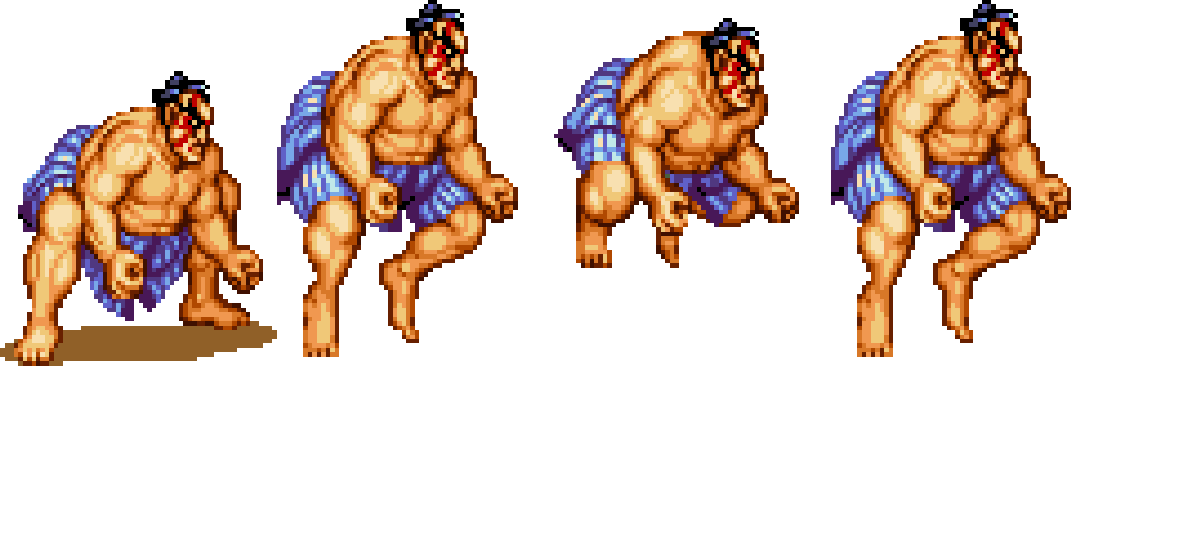
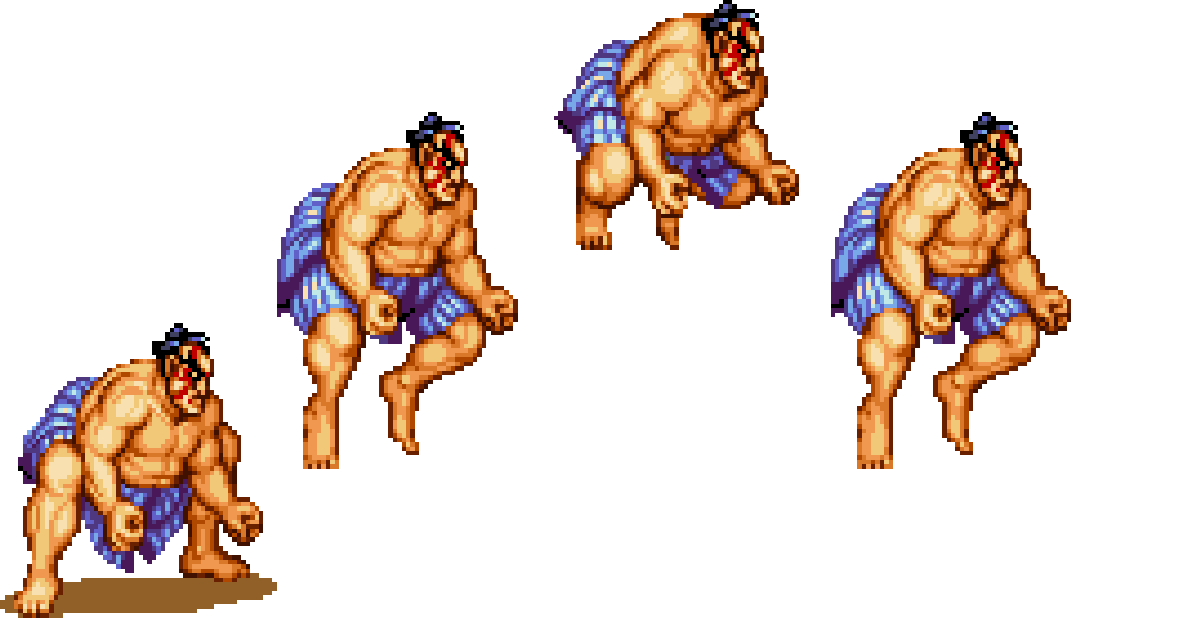
add blanka

diff --git a/JeuDeCombats/src/personnages/InformationsCharacter.java b/JeuDeCombats/src/personnages/InformationsCharacter.java
@@ -6,49 +6,49 @@ public abstract class InformationsCharacter {
 	private static int speed[]={8,4,8,6,8,8,2,2,4,4,8,10,6,10,6,8};
 	private static int damage[]={8,10,6,8,6,4,10,6,8,8,8,6,8,6,10,10};
 	
-	private static int widthSpritePersoIdle[]={182,299,0,0,0,207};
-	private static int heightSpritePersoIdle[]={345,366,0,0,0,350};
-	private static int nbSpritePersoIdle[]={4,4,0,0,0,4};
+	private static int widthSpritePersoIdle[]={182,299,234,0,0,207};
+	private static int heightSpritePersoIdle[]={345,366,321,0,0,350};
+	private static int nbSpritePersoIdle[]={4,4,4,0,0,4};
 	
-	private static int widthSpritePersoWalking[]={182,326,0,0,0,230};
-	private static int heightSpritePersoWalking[]={345,353,0,0,0,360};
-	private static int nbSpritePersoWalking[]={5,4,0,0,0,8};
+	private static int widthSpritePersoWalking[]={182,326,233,0,0,230};
+	private static int heightSpritePersoWalking[]={345,353,262,0,0,360};
+	private static int nbSpritePersoWalking[]={5,4,8,0,0,8};
 	
-	private static int widthSpritePersoJump[]={182,277,0,0,0,205};
-	private static int heightSpritePersoJump[]={380,366,0,0,0,428};
-	private static int nbSpritePersoJump[]={4,4,0,0,0,4};
+	private static int widthSpritePersoJump[]={182,277,216,0,0,205};
+	private static int heightSpritePersoJump[]={558,618,539,0,0,428};
+	private static int nbSpritePersoJump[]={4,4,4,0,0,4};
 	
-	private static int widthSpritePersoCrouch[]={182,277,0,0,0,205};
-	private static int heightSpritePersoCrouch[]={228,272,0,0,0,266};
-	private static int nbSpritePersoCrouch[]={1,1,0,0,0,1};
+	private static int widthSpritePersoCrouch[]={182,277,217,0,0,205};
+	private static int heightSpritePersoCrouch[]={228,272,233,0,0,266};
+	private static int nbSpritePersoCrouch[]={1,1,2,0,0,1};
 	
-	private static int widthSpritePersoBlocking[]={182,295,0,0,0,219};
-	private static int heightSpritePersoBlocking[]={350,411,0,0,0,340};
-	private static int nbSpritePersoBlocking[]={2,1,0,0,0,2};
+	private static int widthSpritePersoBlocking[]={182,295,210,0,0,219};
+	private static int heightSpritePersoBlocking[]={350,411,304,0,0,340};
+	private static int nbSpritePersoBlocking[]={2,1,1,0,0,2};
 	
-	private static int widthSpritePersoPunch[]={182,379,0,0,0,384};
-	private static int heightSpritePersoPunch[]={341,353,0,0,0,340};
-	private static int nbSpritePersoPunch[]={3,3,0,0,0,3};
+	private static int widthSpritePersoPunch[]={182,379,319,0,0,384};
+	private static int heightSpritePersoPunch[]={341,353,317,0,0,340};
+	private static int nbSpritePersoPunch[]={3,3,2,0,0,3};
 	
-	private static int widthSpritePersoKick[]={182,402,0,0,0,366};
-	private static int heightSpritePersoKick[]={349,361,0,0,0,388};
-	private static int nbSpritePersoKick[]={3,3,0,0,0,5};
+	private static int widthSpritePersoKick[]={182,402,325,0,0,366};
+	private static int heightSpritePersoKick[]={349,361,300,0,0,388};
+	private static int nbSpritePersoKick[]={3,3,3,0,0,5};
 	
-	private static int widthSpritePersoHit[]={182,299,0,0,0,290};
-	private static int heightSpritePersoHit[]={287,343,0,0,0,306};
-	private static int nbSpritePersoHit[]={4,3,0,0,0,2};
+	private static int widthSpritePersoHit[]={182,299,245,0,0,290};
+	private static int heightSpritePersoHit[]={287,343,318,0,0,306};
+	private static int nbSpritePersoHit[]={4,3,2,0,0,2};
 	
-	private static int widthSpritePersoCrouchHit[]={182,299,0,0,0,237};
-	private static int heightSpritePersoCrouchHit[]={241,295,0,0,0,248};
-	private static int nbSpritePersoCrouchHit[]={1,1,0,0,0,1};
+	private static int widthSpritePersoCrouchHit[]={182,299,227,0,0,237};
+	private static int heightSpritePersoCrouchHit[]={241,295,277,0,0,248};
+	private static int nbSpritePersoCrouchHit[]={1,1,3,0,0,1};
 	
-	private static int widthSpritePersoKo[]={182,388,0,0,0,357};
-	private static int heightSpritePersoKo[]={312,384,0,0,0,283};
-	private static int nbSpritePersoKo[]={3,5,0,0,0,4};
+	private static int widthSpritePersoKo[]={182,388,378,0,0,357};
+	private static int heightSpritePersoKo[]={312,384,266,0,0,283};
+	private static int nbSpritePersoKo[]={3,5,5,0,0,4};
 	
-	private static int widthSpritePersoVictory[]={180,299,0,0,0,203};
-	private static int heightSpritePersoVictory[]={460,536,0,0,0,384};
-	private static int nbSpritePersoVictory[]={3,2,0,0,0,3};
+	private static int widthSpritePersoVictory[]={180,299,240,0,0,203};
+	private static int heightSpritePersoVictory[]={460,536,486,0,0,384};
+	private static int nbSpritePersoVictory[]={3,2,4,0,0,3};
 
 	public static int getLife(int numeroPerso){return InformationsCharacter.life[numeroPerso];}
 	public static int getSpeed(int numeroPerso){return InformationsCharacter.speed[numeroPerso];}
